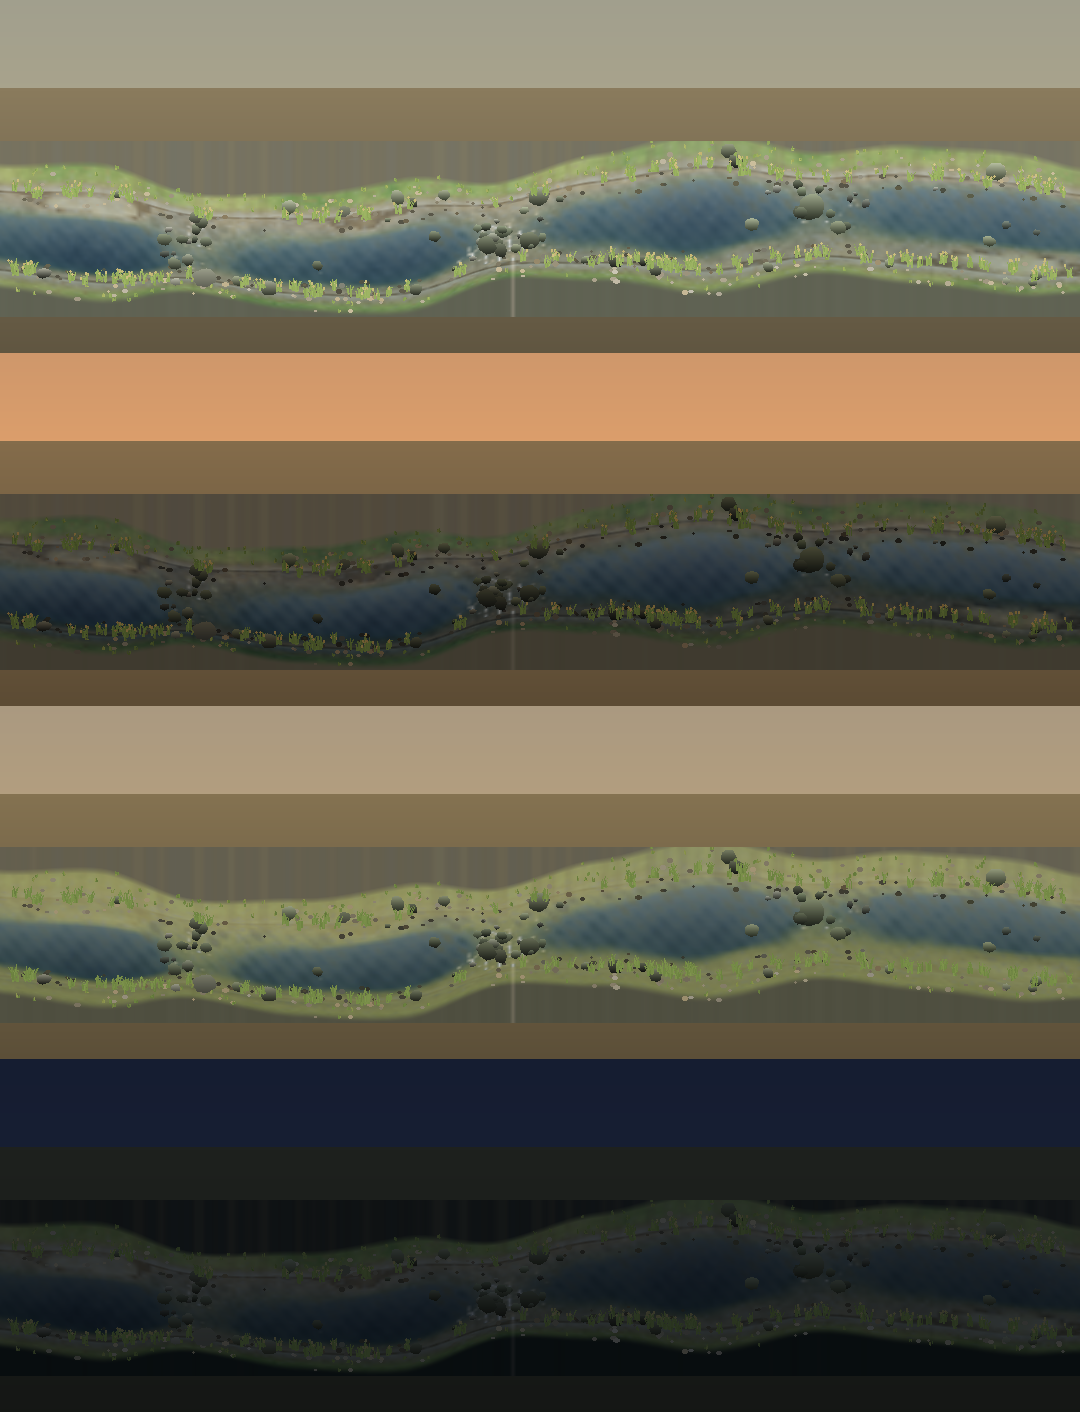
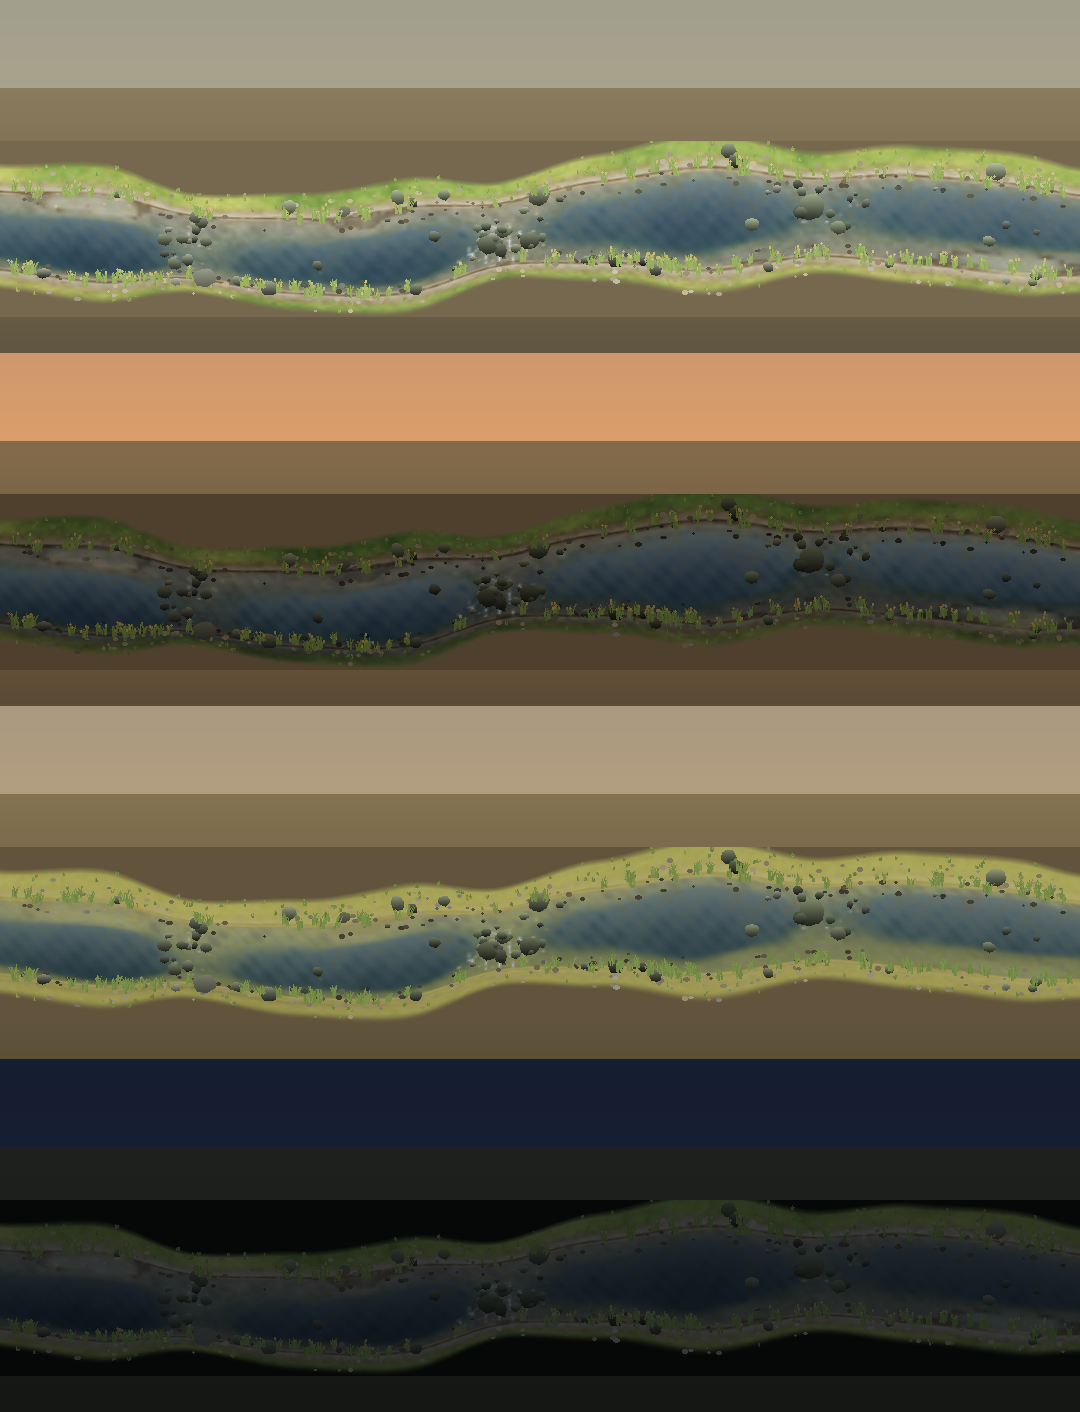
Document the Pulvar reach, and clip the preview's water to its channel
The framing preview's raster samples the water grid bilinearly, which clamps
past the last lateral node and smeared the water's edge alpha down the near
bank. The app draws a mesh whose vertices stop at |t| = 1, so its edge is
already exact; the preview now masks to the same channel.

docs/PERSEPOLIS_LANDSCAPE.md replaces the old hand-painted-river bullet with
what the landscape now actually draws: the supplied design's hydraulics, bed,
transparency, wakes and season, the projection swap that puts it in this band,
the resolution work the design's ripple field needs at 3 px/m, and the one-bake
-one-blit cost.

diff --git a/tools/pulvar/preview_pulvar.py b/tools/pulvar/preview_pulvar.py
@@ -1077,7 +1077,12 @@ def raster_band(frame, terr, wtr, top, bottom, bg):
     can[:, :, 3] = 1.0
 
     wat = _sample(wtr, WATER_COLS, T_NODES, frame, rows, weld)
-    wa = wat[:, :, 3:4]
+    # The app draws this as a mesh whose vertices stop at |t| = 1, so its edge is exact. The
+    # bilinear raster here clamps past the last node instead, smearing the water's edge alpha down
+    # the near bank as a pale wash. Mask it to the channel the mesh actually covers.
+    wx = frame.world_x(weld)
+    q = (rows[:, None] - frame.center_y_world(wx)[None, :]) / np.maximum(frame.half_px(weld), 0.5)[None, :]
+    wa = wat[:, :, 3:4] * np.clip((1.02 - np.abs(q)) / 0.05, 0.0, 1.0)[:, :, None]
     can[:, :, :3] = wat[:, :, :3] * wa + can[:, :, :3] * (1 - wa)
 
     out = Image.fromarray(np.clip(can * 255.0, 0, 255).astype(np.uint8), "RGBA")

diff --git a/docs/PERSEPOLIS_LANDSCAPE.md b/docs/PERSEPOLIS_LANDSCAPE.md
@@ -207,13 +207,25 @@ paints, back to front:
   the viewer's own near bank, the same field deepened into a lush moisture ribbon
   hugging the water. Never in the water, the canal thread, the clearings or on the
   Mil slope front;
-- a **broad Pulvar river** (≈3.8× the first stream) the viewer stands across from: layered
-  water (damp wet-bank fringe, shallow edges with the bed and pebbles showing, sky
-  reflection, a deep thalweg hugging each outer bank, gravel point bars inside the bends,
-  flow ripples), reed clumps with plumes, broken reflections of the foreground trees — and a
-  broad Fresnel sheen plus stochastically thinned glitter (with rare star sparkles)
-  concentrated in the real Sun's reflection column by day (the Moon's, scaled by its
-  illumination, at night);
+- a **broad Pulvar river** the viewer stands across from — no longer a hand-painted ribbon but
+  the supplied **`PulvarRiver3D.kt`** reach, ported whole into `PulvarRiver` and rendered by
+  `PulvarRiverSprite`. The design is a 224 m pool–riffle–run channel with an asymmetric
+  thalweg, gravel point bars inside its bends, a real bed under genuinely transparent water,
+  boulder and cobble fields, reeds and bank grass, lit by the design's own Sun/Moon and
+  shaded by its own `shadeOpaque`/`shadeWater` — Schlick Fresnel, Beer–Lambert absorption
+  with turbidity, caustics on the submerged bed, and a hydraulic foam mask that carries the
+  riffle crests and each boulder's bow wave and wake. This scene replaces only the design's
+  *projection*: `PulvarRiver.Frame` maps the reach onto the band the valley's planting was
+  always built around, so the meander, the riffle rhythm and the channel's width variation
+  all survive while the trees, the field, the canal and the aprons keep their clearance. The
+  corridor's outer edge fades into the plain and the whole bake is multiplied by this frame's
+  light — the same per-channel tint the maples and Paulownias get — so the water is lit by the
+  scene's Sun, dims with its ambient and takes the Moon's glitter column at night instead of
+  its own. Resolution is the one thing the design's shading cannot survive unchanged: its
+  ripple field is authored for a close 3D camera, so the field is stretched (0.14) and its
+  normals damped to what a 3.1 px/m band can actually resolve. One bake per layout and
+  season, then one blit per frame plus the glitter. See the four-state render
+  [`pulvar-river.png`](pulvar-river.png) and `PulvarRiverTest`;
 - a **parkland of exactly two species** — the supplied **Paulownia** and **sugar maple** designs,
   and *neither* is grown per tree. Each is the supplied design's single tree, grown once and
   **rendered once** into a small sprite per season, then *projected* at every planting: mirrored
